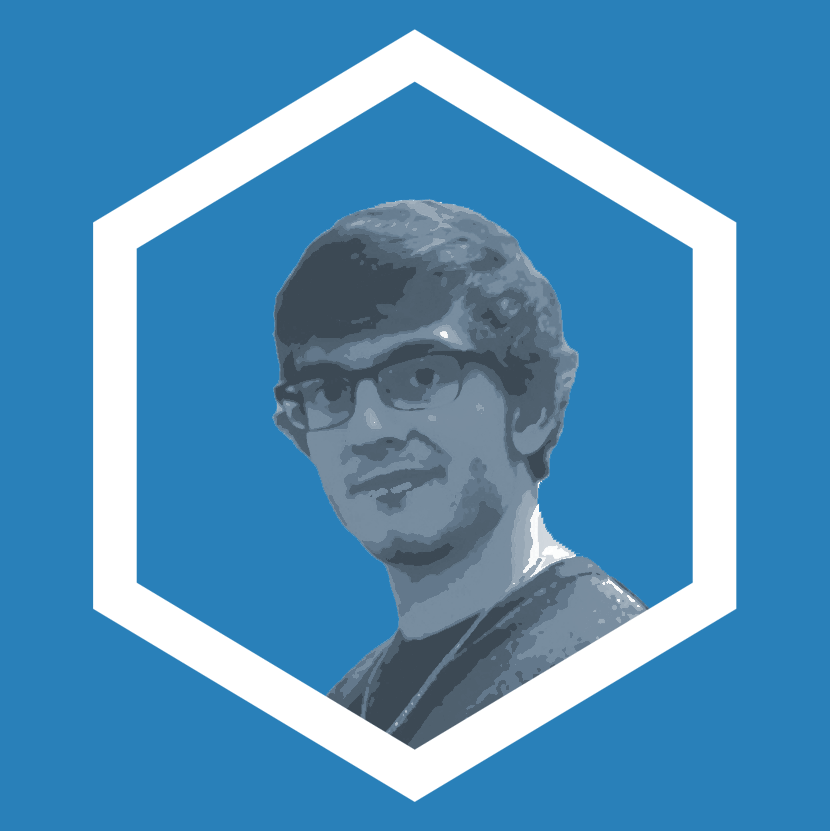
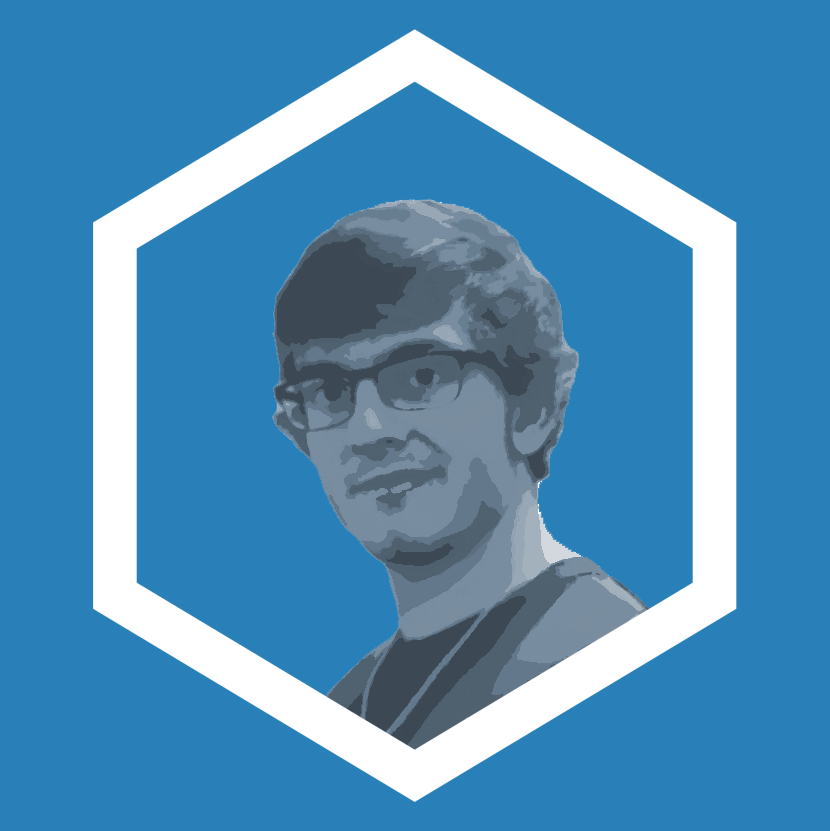
update about picture and add iTunes redirects

diff --git a/projects.html b/projects.html
@@ -62,7 +62,7 @@
               <div class="caption notShown">
                 <h3>Space Blaze</h3>
                 <p>An addicting game of speed and precision.</p>
-                <p><a href="/projects/spaceblaze.html" class="button">More Info</a></p>
+                <p><a href="/projects/spaceblaze.html" class="button" id="spaceblaze">More Info</a></p>
               </div>
             </div>
           </div>
@@ -72,7 +72,7 @@
               <div class="caption notShown">
                 <h3>Ki</h3>
                 <p>An app that helps users write and play music.</p>
-                <p><a href="/projects/ki.html" class="button">More Info</a></p>
+                <p><a href="/projects/ki.html" class="button" id="ki">More Info</a></p>
               </div>
             </div>
           </div>
@@ -82,7 +82,7 @@
               <div class="caption notShown">
                 <h3>Color Picker</h3>
                 <p>A tool for web designers to choose colors.</p>
-                <p><a href="/projects/randomcolorpicker.html" class="button">More Info</a></p>
+                <p><a href="/projects/randomcolorpicker.html" class="button" id="randomcolorpicker">More Info</a></p>
               </div>
             </div>
           </div>

diff --git a/js/projects.js b/js/projects.js
@@ -1,10 +1,18 @@
 var delay = 100;
 
 $(document).ready(function() {
+
+  if ($(window).height() < 720 || $(window).width() < 720) {
+    document.getElementById("ki").setAttribute('href', "https://itunes.apple.com/app/ki-music-writing-helper-for/id955086812");
+    document.getElementById("spaceblaze").setAttribute('href', "https://itunes.apple.com/app/space-blaze-simple-yet-addicting/id968067298");
+    document.getElementById("randomcolorpicker").setAttribute('href', "https://itunes.apple.com/app/random-color-picker-easy-tool/id979101026");
+  }
+
 	setTimeout(function() {
 		$('.appIcon').fadeIn(500).removeClass('hidden');
 		$('.caption').removeClass('notShown').addClass('slideUp');
 
 		$('.main-content').fadeIn(300).removeClass('hidden');
 	}, delay);
+
 });

diff --git a/projects/randomcolorpicker.html b/projects/randomcolorpicker.html
@@ -140,6 +140,7 @@
     <script src="https://ajax.googleapis.com/ajax/libs/jquery/1.11.3/jquery.min.js"></script>
     <script src="../js/bootstrap.min.js"></script>
     <script src="../js/projects.js"></script>
+    <script src="../js/randomcolorpicker.js"></script>
     <script>
       (function(i,s,o,g,r,a,m){i['GoogleAnalyticsObject']=r;i[r]=i[r]||function(){
       (i[r].q=i[r].q||[]).push(arguments)},i[r].l=1*new Date();a=s.createElement(o),
@@ -148,7 +149,6 @@
 
       ga('create', 'UA-66626002-1', 'auto');
       ga('send', 'pageview');
-
     </script>
   </body>
 </html>

diff --git a/projects/spaceblaze.html b/projects/spaceblaze.html
@@ -140,6 +140,7 @@
     <script src="https://ajax.googleapis.com/ajax/libs/jquery/1.11.3/jquery.min.js"></script>
     <script src="../js/bootstrap.min.js"></script>
     <script src="../js/projects.js"></script>
+    <script src="../js/spaceblaze.js"></script>
     <script>
       (function(i,s,o,g,r,a,m){i['GoogleAnalyticsObject']=r;i[r]=i[r]||function(){
       (i[r].q=i[r].q||[]).push(arguments)},i[r].l=1*new Date();a=s.createElement(o),
@@ -148,7 +149,6 @@
 
       ga('create', 'UA-66626002-1', 'auto');
       ga('send', 'pageview');
-
     </script>
   </body>
 </html>

diff --git a/projects/ki.html b/projects/ki.html
@@ -140,6 +140,7 @@
     <script src="https://ajax.googleapis.com/ajax/libs/jquery/1.11.3/jquery.min.js"></script>
     <script src="../js/bootstrap.min.js"></script>
     <script src="../js/projects.js"></script>
+    <script src="../js/ki.js"></script>
     <script>
       (function(i,s,o,g,r,a,m){i['GoogleAnalyticsObject']=r;i[r]=i[r]||function(){
       (i[r].q=i[r].q||[]).push(arguments)},i[r].l=1*new Date();a=s.createElement(o),
@@ -148,7 +149,6 @@
 
       ga('create', 'UA-66626002-1', 'auto');
       ga('send', 'pageview');
-
     </script>
   </body>
 </html>

diff --git a/js/spaceblaze.js b/js/spaceblaze.js
@@ -1,0 +1,3 @@
+if ($(window).width() < 500) {
+  window.location.href = "https://itunes.apple.com/app/space-blaze-simple-yet-addicting/id968067298";
+}

diff --git a/js/ki.js b/js/ki.js
@@ -1,0 +1,3 @@
+if ($(window).width() < 500) {
+  window.location.href = "https://itunes.apple.com/app/ki-music-writing-helper-for/id955086812";
+}1yu 

diff --git a/js/randomcolorpicker.js b/js/randomcolorpicker.js
@@ -1,0 +1,3 @@
+if ($(window).width() < 500) {
+  window.location.href = "https://itunes.apple.com/app/random-color-picker-easy-tool/id979101026";
+}
